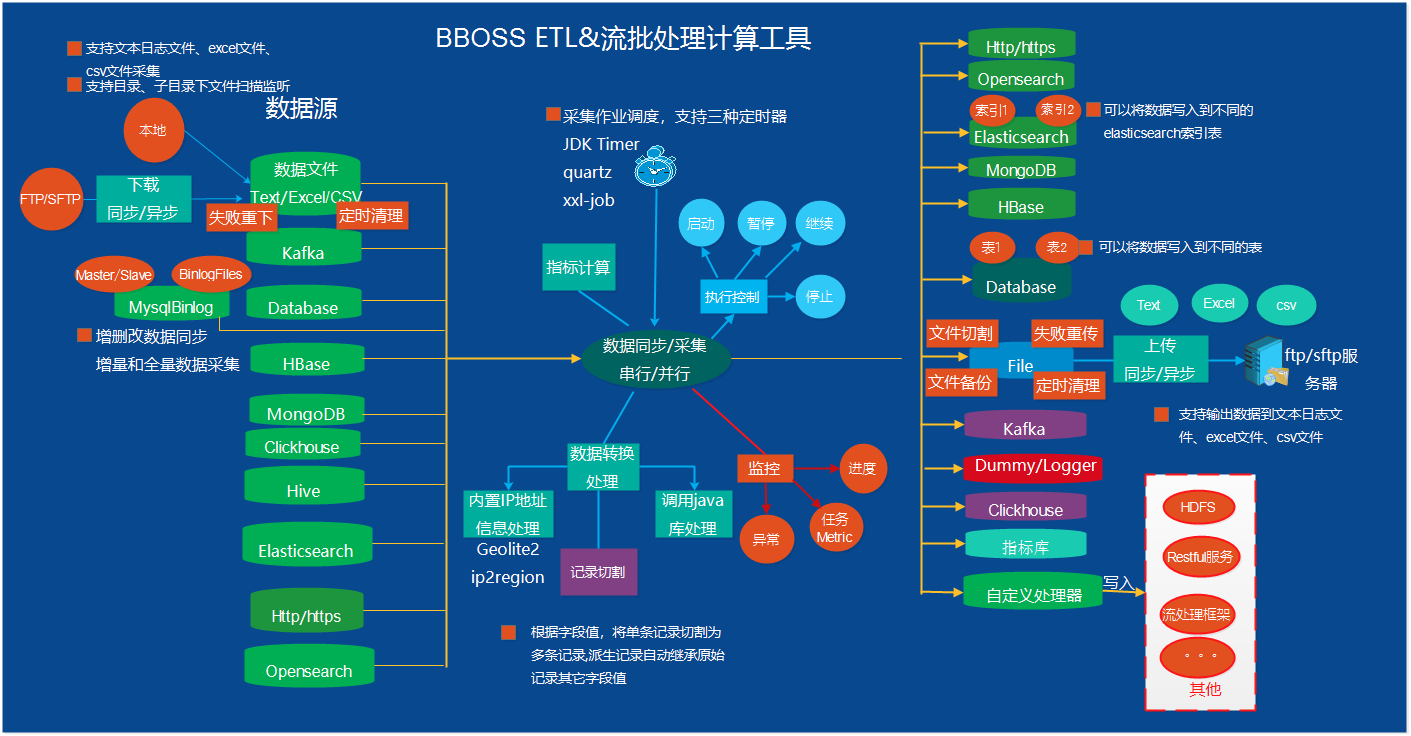
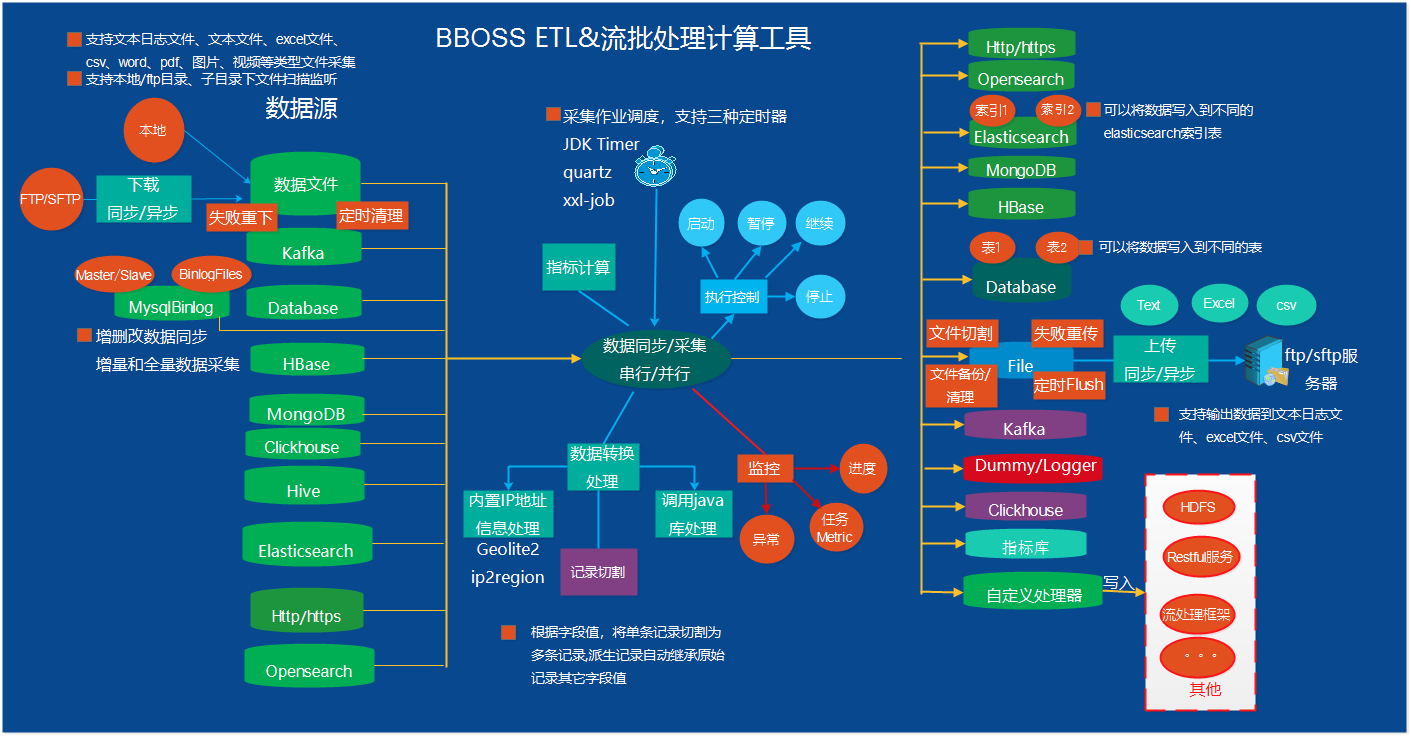
调整报错提示信息

Changed region(s): [[0.0312, 0.0312, 0.2495, 0.125], [0.6549, 0.4688, 0.7796, 0.5625], [0.1871, 0.2188, 0.2495, 0.2812]]

diff --git a/docs/db-es-tool.md b/docs/db-es-tool.md
@@ -106,7 +106,7 @@ bboss-datatran源码工程：https://gitee.com/bboss/bboss-elastic-tran
 
 9）支持自动清理下载完毕后ftp服务器上的文件;
 
-10）支持excel、csv文件采集（本地和ftp/sftp）
+10）支持excel/word/pdf/图片/视频等类型文件采集（本地和ftp/sftp）
 
 11）支持导出数据到excel和csv文件,并支持上传到ftp/sftp服务器
 
@@ -144,17 +144,20 @@ com.bbossgroups.plugins
 
 ## 输入插件
 
-| 插件                                                         | 插码名称              | Maven坐标              | 功能说明                                                     |
-| ------------------------------------------------------------ | --------------------- | ---------------------- | ------------------------------------------------------------ |
-| [DBInputConfig](https://gitee.com/bboss/bboss-elastic-tran/blob/master/bboss-datatran-core/src/main/java/org/frameworkset/tran/plugin/db/input/DBInputConfig.java) | DB数据库输入插件      | bboss-datatran-jdbc    | 配置DB数据源、查询sql、查询sql文件路径及文件名称,支持各种关系数据库，hive |
-| [ElasticsearchInputConfig](https://gitee.com/bboss/bboss-elastic-tran/blob/master/bboss-datatran-core/src/main/java/org/frameworkset/tran/plugin/es/input/ElasticsearchInputConfig.java) | elasticsearch输出插件 | bboss-datatran-jdbc    | 配置elasticsearch数据源、queryDsl、queryDsl配置文件路径等    |
-| [HttpInputConfig](https://gitee.com/bboss/bboss-elastic-tran/blob/master/bboss-datatran-core/src/main/java/org/frameworkset/tran/plugin/http/input/HttpInputConfig.java) | Http输入插件          | bboss-datatran-jdbc    | 配置http服务参数、服务地址、服务查询参数、ssl证书等          |
-| [FileInputConfig](https://gitee.com/bboss/bboss-elastic-tran/blob/master/bboss-datatran-fileftp/src/main/java/org/frameworkset/tran/plugin/file/input/FileInputConfig.java) | 文件输入插件          | bboss-datatran-fileftp | 对应文本类数据文件数据采集配置，源文件目录、输入Ftp/sftp配置 |
-| [ExcelFileInputConfig](https://gitee.com/bboss/bboss-elastic-tran/blob/master/bboss-datatran-fileftp/src/main/java/org/frameworkset/tran/plugin/file/input/ExcelFileInputConfig.java) | excel文件输入插件     | bboss-datatran-fileftp | excel文件采集映射配置（忽略行数、excel列号与目标字段名称映射、列默认值配置），包括excel源文件目录、输入Ftp/sftp配置 |
-| [HBaseInputConfig](https://gitee.com/bboss/bboss-elastic-tran/blob/master/bboss-datatran-hbase/src/main/java/org/frameworkset/tran/plugin/hbase/input/HBaseInputConfig.java) | hbase输入插件         | bboss-datatran-hbase   | hbase连接配置、查询表配置、查询条件配置                      |
-| [MongoDBInputConfig](https://gitee.com/bboss/bboss-elastic-tran/blob/master/bboss-datatran-mongodb/src/main/java/org/frameworkset/tran/plugin/mongodb/input/MongoDBInputConfig.java) | mongodb输入插件       | bboss-datatran-mongodb | mongodb连接配置、查询表配置、查询条件配置                    |
-| [Kafka2InputConfig](https://gitee.com/bboss/bboss-elastic-tran/blob/master/bboss-datatran-kafka2x/src/main/java/org/frameworkset/tran/plugin/kafka/input/Kafka2InputConfig.java) | kafka输入插件         | bboss-datatran-kafka2x | kafka消费端参数配置、主题配置、客户端消费组配置等            |
-| [Kafka1InputConfig](https://gitee.com/bboss/bboss-elastic-tran/blob/master/bboss-datatran-kafka1x/src/main/java/org/frameworkset/tran/plugin/kafka/input/Kafka1InputConfig.java) | 低版本kafka输入插件   | bboss-datatran-kafka1x | 低版本kafka消费端参数配置、主题配置、客户端消费组配置等（不推荐使用，建议升级到kafka 2x版本） |
+| 插件                                                         | 插码名称                                                     | Maven坐标              | 功能说明                                                     |
+| ------------------------------------------------------------ | ------------------------------------------------------------ | ---------------------- | ------------------------------------------------------------ |
+| [DBInputConfig](https://gitee.com/bboss/bboss-elastic-tran/blob/master/bboss-datatran-core/src/main/java/org/frameworkset/tran/plugin/db/input/DBInputConfig.java) | DB数据库输入插件                                             | bboss-datatran-jdbc    | 配置DB数据源、查询sql、查询sql文件路径及文件名称,支持各种关系数据库，hive |
+| [ElasticsearchInputConfig](https://gitee.com/bboss/bboss-elastic-tran/blob/master/bboss-datatran-core/src/main/java/org/frameworkset/tran/plugin/es/input/ElasticsearchInputConfig.java) | elasticsearch输出插件                                        | bboss-datatran-jdbc    | 配置elasticsearch数据源、queryDsl、queryDsl配置文件路径等    |
+| [HttpInputConfig](https://gitee.com/bboss/bboss-elastic-tran/blob/master/bboss-datatran-core/src/main/java/org/frameworkset/tran/plugin/http/input/HttpInputConfig.java) | Http输入插件                                                 | bboss-datatran-jdbc    | 配置http服务参数、服务地址、服务查询参数、ssl证书等          |
+| [FileInputConfig](https://gitee.com/bboss/bboss-elastic-tran/blob/master/bboss-datatran-fileftp/src/main/java/org/frameworkset/tran/plugin/file/input/FileInputConfig.java) | 文件输入插件                                                 | bboss-datatran-fileftp | 对应文本类数据文件数据采集配置，源文件目录、输入Ftp/sftp配置 |
+| [ExcelFileInputConfig](https://gitee.com/bboss/bboss-elastic-tran/blob/master/bboss-datatran-fileftp/src/main/java/org/frameworkset/tran/plugin/file/input/ExcelFileInputConfig.java) | excel文件输入插件                                            | bboss-datatran-fileftp | excel文件采集映射配置（忽略行数、excel列号与目标字段名称映射、列默认值配置），包括excel源文件目录、输入Ftp/sftp配置 |
+| [WordFileInputConfig](https://gitee.com/bboss/bboss-elastic-tran/blob/master/bboss-datatran-fileftp/src/main/java/org/frameworkset/tran/plugin/file/input/WordFileInputConfig.java) | [Word文件采集插件](https://esdoc.bbossgroups.com/#/datatran-plugins?id=_110-word文件采集插件) | bboss-datatran-fileftp | 插件配置 [WordFileInputConfig](https://gitee.com/bboss/bboss-elastic-tran/blob/master/bboss-datatran-fileftp/src/main/java/org/frameworkset/tran/plugin/file/input/WordFileInputConfig.java)(FileInputConfig子类)和WordFileConfig（FileConfig子类）结合，通过WordFileConfig设置WordExtractor自定义word文件内容提取逻辑，如果不设置setWordExtractor，默认将文件内容放置到wordContent字段中，除了word文件采集需要的配置，其他配置和文件采集插件配置一致 |
+| [PDFFileInputConfig](https://gitee.com/bboss/bboss-elastic-tran/blob/master/bboss-datatran-fileftp/src/main/java/org/frameworkset/tran/plugin/file/input/PDFFileInputConfig.java) | [PDF文件采集插件](https://esdoc.bbossgroups.com/#/datatran-plugins?id=_111-pdf文件采集插件) | bboss-datatran-fileftp | 插件配置 [PDFFileInputConfig](https://gitee.com/bboss/bboss-elastic-tran/blob/master/bboss-datatran-fileftp/src/main/java/org/frameworkset/tran/plugin/file/input/PDFFileInputConfig.java)(FileInputConfig子类)和PDFFileConfig（FileConfig子类）结合，通过PDFFileConfig设置PDFExtractor自定义pdf文件内容提取逻辑，如果不设置setPdfExtractor，默认将文件内容放置到pdfContent字段中，除了pdf文件采集需要的配置，其他配置和文件采集插件配置一致 |
+| [CommonFileInputConfig](https://gitee.com/bboss/bboss-elastic-tran/blob/master/bboss-datatran-fileftp/src/main/java/org/frameworkset/tran/plugin/file/input/CommonFileInputConfig.java) | [其他类型文件采集插件](https://esdoc.bbossgroups.com/#/datatran-plugins?id=_112-其他类型文件采集插件) | bboss-datatran-fileftp | 插件配置 [CommonFileInputConfig](https://gitee.com/bboss/bboss-elastic-tran/blob/master/bboss-datatran-fileftp/src/main/java/org/frameworkset/tran/plugin/file/input/CommonFileInputConfig.java)(FileInputConfig子类)和CommonFileConfig（FileConfig子类）结合,必须通过setCommonFileExtractor设置CommonFileExtractor，提取文件内容，除了其他类型（图片、视频等）文件采集需要的配置，其他配置和文件采集插件配置一致 |
+| [HBaseInputConfig](https://gitee.com/bboss/bboss-elastic-tran/blob/master/bboss-datatran-hbase/src/main/java/org/frameworkset/tran/plugin/hbase/input/HBaseInputConfig.java) | hbase输入插件                                                | bboss-datatran-hbase   | hbase连接配置、查询表配置、查询条件配置                      |
+| [MongoDBInputConfig](https://gitee.com/bboss/bboss-elastic-tran/blob/master/bboss-datatran-mongodb/src/main/java/org/frameworkset/tran/plugin/mongodb/input/MongoDBInputConfig.java) | mongodb输入插件                                              | bboss-datatran-mongodb | mongodb连接配置、查询表配置、查询条件配置                    |
+| [Kafka2InputConfig](https://gitee.com/bboss/bboss-elastic-tran/blob/master/bboss-datatran-kafka2x/src/main/java/org/frameworkset/tran/plugin/kafka/input/Kafka2InputConfig.java) | kafka输入插件                                                | bboss-datatran-kafka2x | kafka消费端参数配置、主题配置、客户端消费组配置等            |
+| [Kafka1InputConfig](https://gitee.com/bboss/bboss-elastic-tran/blob/master/bboss-datatran-kafka1x/src/main/java/org/frameworkset/tran/plugin/kafka/input/Kafka1InputConfig.java) | 低版本kafka输入插件                                          | bboss-datatran-kafka1x | 低版本kafka消费端参数配置、主题配置、客户端消费组配置等（不推荐使用，建议升级到kafka 2x版本） |
 
 ## 输出插件
 
@@ -250,7 +253,7 @@ kafka插件maven坐标
 <version>7.0.6</version>
 </dependency>
 ```
-日志文件/excel/csv/ftp/sftp插件maven坐标
+日志文件/excel/csv//word/pdf/图片/视频等采集以及上传ftp/sftp插件maven坐标
 ```xml
 <dependency>
 <groupId>com.bbossgroups.plugins</groupId>

diff --git a/docs/filelog-guide.md b/docs/filelog-guide.md
@@ -3,7 +3,7 @@
 本文介绍基于java语言的文件&日志数据采集插件,插件主要特色如下:
 
 1. 支持全量和增量采集两种模式；采集-转换-清洗-[流计算一体化融合](https://esdoc.bbossgroups.com/#/etl-metrics)处理
-2. 实时采集本地/FTP日志文件、excel文件数据到kafka/elasticsearch/database/自定义处理器
+2. 实时采集日志文件、json文件、文本文件、excel/word/pdf/图片/视频等类型文件（本地和ftp/sftp）数据到kafka/elasticsearch/database/自定义处理器等等
 3. 支持多线程并行下载和处理远程数据文件
 4. 支持本地/ftp/sftp子目录下文件数据采集；
 5. 支持备份采集完毕日志文件功能，可以指定备份文件保存时长，定期清理过期文件；
